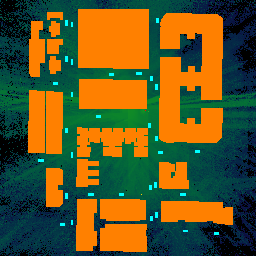
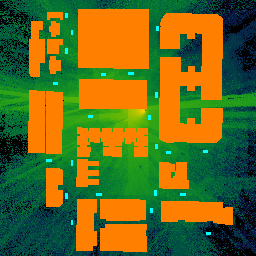
backend

diff --git a/data_gain.py b/data_gain.py
@@ -46,7 +46,7 @@ for idx in range(1,num_scenes+1):
             
   
     
-    scene.add(Transmitter("tx", position=[4,18,1.5], orientation=[np.pi,0,0]))
+    scene.add(Transmitter("tx", position=[4,18,3], orientation=[np.pi,0,0]))
     scene.tx_array = PlanarArray(num_rows=1, num_cols=1, pattern="tr38901", polarization="V")
     scene.rx_array = scene.tx_array
 
@@ -103,8 +103,8 @@ for idx in range(1,num_scenes+1):
                     num_samples=1024,
                     rm_vmin=-140)
         
-        scene = util.cars_movement(scene, displacement_vec)
-        # scene = util.cars_desity_change(scene, radio=0.3)
+        # scene = util.cars_movement(scene, displacement_vec)
+        scene = util.cars_desity_change(scene, radio=0.3)
         
         
 
